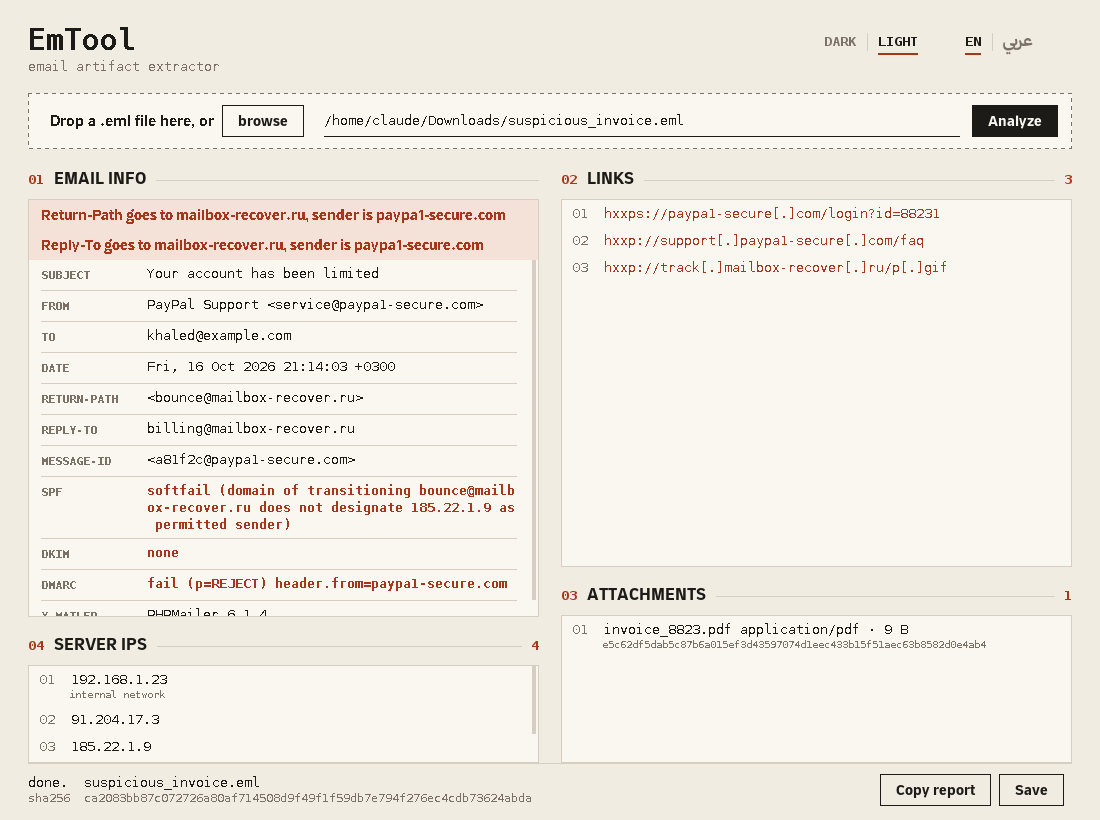
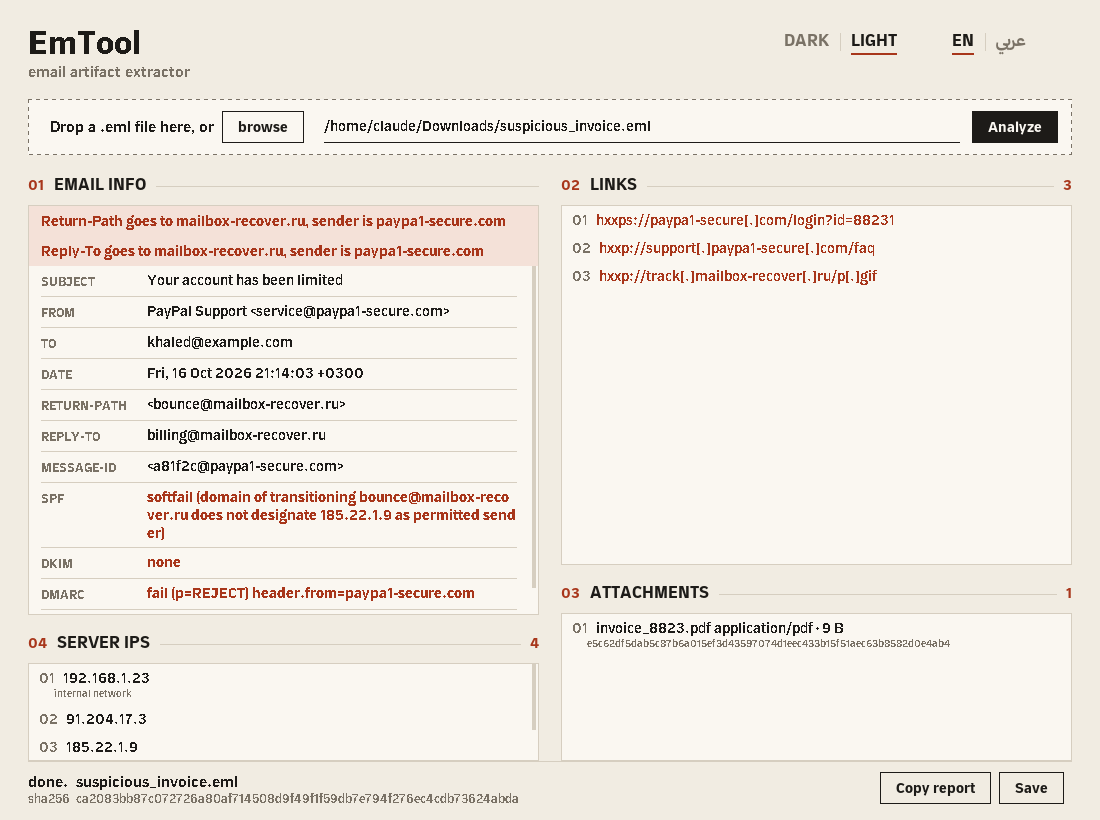
Thmanyah for all text; shorter README

diff --git a/EmAnalizeTool/EmToolGUI.java b/EmAnalizeTool/EmToolGUI.java
@@ -35,10 +35,10 @@ public class EmToolGUI extends JFrame {
     static final Font FACE_BOLD = face("bold");
     static final String UI_FAMILY = FACE_BOLD.getFamily();
 
-    static final Font MONO      = new Font(Font.MONOSPACED, Font.PLAIN, 13);
-    static final Font MONO_BOLD = new Font(Font.MONOSPACED, Font.BOLD, 13);
-    static final Font MONO_SMALL = new Font(Font.MONOSPACED, Font.PLAIN, 11);
-    static final Font MARK      = new Font(Font.MONOSPACED, Font.BOLD, 30);
+    static final Font BODY      = FACE_MED.deriveFont(14f);
+    static final Font TEXT_BOLD = FACE_BOLD.deriveFont(14f);
+    static final Font TEXT_SMALL = FACE_MED.deriveFont(12f);
+    static final Font MARK      = FACE_BOLD.deriveFont(32f);
     static final Font UI        = FACE_MED.deriveFont(15f);
     static final Font UI_SMALL  = FACE_MED.deriveFont(13f);
     static final Font UI_BOLD   = FACE_BOLD.deriveFont(14f);
@@ -178,7 +178,7 @@ public class EmToolGUI extends JFrame {
         left.add(dropLabel);
         left.add(browseBtn);
 
-        pathField.setFont(MONO);
+        pathField.setFont(BODY);
         pathField.setForeground(INK);
         pathField.setBackground(SHEET);
         pathField.setCaretColor(RUST);
@@ -245,7 +245,7 @@ public class EmToolGUI extends JFrame {
         JPanel info = new JPanel();
         info.setOpaque(false);
         info.setLayout(new BoxLayout(info, BoxLayout.Y_AXIS));
-        hashLabel.setFont(MONO_SMALL);
+        hashLabel.setFont(TEXT_SMALL);
         hashLabel.setForeground(MUTED);
         info.add(status);
         info.add(hashLabel);
@@ -416,7 +416,7 @@ public class EmToolGUI extends JFrame {
         c.gridx = 0; c.weightx = 0; c.fill = GridBagConstraints.NONE;
         c.insets = new Insets(6, 12, 6, 10);
         JLabel k = new JLabel(ar ? AR_KEYS.get(key) : key.toUpperCase());
-        k.setFont(ar ? UI_BOLD : new Font(Font.MONOSPACED, Font.BOLD, 11));
+        k.setFont(ar ? UI_BOLD : FACE_BOLD.deriveFont(12f));
         k.setForeground(MUTED);
         k.setPreferredSize(new Dimension(96, 18));
         headerRows.add(k, c);
@@ -427,7 +427,7 @@ public class EmToolGUI extends JFrame {
         v.setEditable(false);
         v.setLineWrap(true);
         v.setWrapStyleWord(false);
-        v.setFont(MONO);
+        v.setFont(BODY);
         v.setOpaque(false);
         v.setBorder(null);
         v.setSelectionColor(RUST);
@@ -438,7 +438,7 @@ public class EmToolGUI extends JFrame {
             String low = value.toLowerCase();
             if (low.startsWith("pass")) v.setForeground(OLIVE);
             else if (low.startsWith("fail") || low.startsWith("softfail") || low.startsWith("none")) v.setForeground(RUST);
-            v.setFont(MONO_BOLD);
+            v.setFont(TEXT_BOLD);
         }
         headerRows.add(v, c);
         c.gridy++;
@@ -490,8 +490,8 @@ public class EmToolGUI extends JFrame {
         for (CopyList l : new CopyList[]{linkList, attachList, ipList}) l.setToolTipText(t("hint"));
         status.setText(t(statusKey) + statusExtra);
         status.setForeground(statusError ? RUST : INK);
-        tagline.setFont(arabic ? UI : MONO);
-        status.setFont(arabic ? UI : MONO);
+        tagline.setFont(UI);
+        status.setFont(UI);
         hHead.setFont(UI_TITLE); lHead.setFont(UI_TITLE); aHead.setFont(UI_TITLE); iHead.setFont(UI_TITLE);
         lang.repaint();
         theme.repaint();
@@ -548,7 +548,7 @@ public class EmToolGUI extends JFrame {
             int w = getWidth(), y = 17;
             String label = arabic ? text : text.toUpperCase();
 
-            g2.setFont(MONO_BOLD);
+            g2.setFont(TEXT_BOLD);
             FontMetrics nm = g2.getFontMetrics();
             int numW = nm.stringWidth(num);
             g2.setFont(getFont());
@@ -563,7 +563,7 @@ public class EmToolGUI extends JFrame {
             int lineB = rtl ? txtX - 10 : w - cntW - (cnt.isEmpty() ? 0 : 10);
             int cntX = rtl ? 0 : w - cntW;
 
-            g2.setFont(MONO_BOLD);
+            g2.setFont(TEXT_BOLD);
             g2.setColor(RUST);
             g2.drawString(num, numX, y);
             g2.setFont(getFont());
@@ -572,7 +572,7 @@ public class EmToolGUI extends JFrame {
             g2.setColor(RULE);
             if (lineB > lineA) g2.drawLine(lineA, y - 4, lineB, y - 4);
             if (!cnt.isEmpty()) {
-                g2.setFont(MONO_BOLD);
+                g2.setFont(TEXT_BOLD);
                 g2.setColor(count > 0 ? RUST : MUTED);
                 g2.drawString(cnt, cntX, y);
             }
@@ -633,14 +633,14 @@ public class EmToolGUI extends JFrame {
         Toggle(java.util.function.Supplier<String> left, java.util.function.Supplier<String> right,
                java.util.function.BooleanSupplier rightOn, Runnable flip) {
             this.left = left; this.right = right; this.rightOn = rightOn;
-            setPreferredSize(new Dimension(110, 28));
+            setPreferredSize(new Dimension(130, 28));
             setCursor(Cursor.getPredefinedCursor(Cursor.HAND_CURSOR));
             addMouseListener(new MouseAdapter() {
                 @Override public void mouseClicked(MouseEvent e) { flip.run(); }
             });
         }
 
-        Font fontFor(String s) { return s.matches(".*[\\u0600-\\u06FF].*") ? UI_TITLE : MONO_BOLD; }
+        Font fontFor(String s) { return UI_TITLE; }
 
         @Override protected void paintComponent(Graphics g) {
             Graphics2D g2 = (Graphics2D) g.create();
@@ -678,7 +678,7 @@ public class EmToolGUI extends JFrame {
 
         CopyList(Color text) {
             setModel(model);
-            setFont(MONO);
+            setFont(BODY);
             setBackground(SHEET);
             setForeground(text);
             setSelectionBackground(INK);
@@ -698,7 +698,7 @@ public class EmToolGUI extends JFrame {
                          .append(esc(row[1])).append("</font></span>");
                     l.setText(h.append("</html>").toString());
                     l.setBorder(new EmptyBorder(5, 10, 5, 10));
-                    l.setFont(MONO);
+                    l.setFont(BODY);
                     if (!sel) { l.setBackground(SHEET); l.setForeground(text); }
                     return l;
                 }

diff --git a/README.md b/README.md
@@ -2,7 +2,7 @@
 
 <p align="center">
   Email artifact extractor for phishing triage<br>
-  <a href="#بالعربي">العربية</a> · <a href="#english">English</a>
+  <a href="#ايميل-مشبوه-">العربية</a> · <a href="#english">English</a>
 </p>
 
 <p align="center">
@@ -24,20 +24,20 @@
 
 ## ايميل مشبوه ؟ 
 
-تفتح الإيميل المشبوه بدون ما تفتحه فعلياً. تعطي الأداة ملف `.eml` وتطلع لك كل شي يهمك في التحليل في شاشة وحدة: مين أرسله ومن وين جا، وش فيه روابط، وش فيه مرفقات، وهل اجتاز فحص SPF و DKIM و DMARC. كل شي يصير على جهازك، وما يطلع أي شي للنت.
+حط ملف `.eml` وتطلع لك كل معلوماته في شاشة وحدة. كل شي يصير على جهازك وما يطلع شي للنت.
 
 ### وش تطلع لك
 
 | القسم | المحتوى |
 |---|---|
 | معلومات الإيميل | الموضوع، المرسل، المستلم، التاريخ، Return-Path، Reply-To، Message-ID، X-Mailer |
-| فحص المرسل | نتيجة SPF و DKIM و DMARC، الأخضر نجح والأحمر فشل |
-| تنبيه | إذا Return-Path أو Reply-To يروح لدومين غير دومين المرسل، وهذي من أوضح علامات التصيد |
-| الروابط | كل الروابط من نص الإيميل ومن الـ HTML، بدون تكرار، ومعطّلة عشان ما تنفتح بالغلط: `hxxps://site[.]com` |
-| المرفقات | الاسم والنوع والحجم و SHA-256، جاهز تحطه في VirusTotal |
-| عناوين IP | من ترويسات Received، مرتبة من جهة المرسل لين وصلت لك، والداخلية عليها علامة |
+| فحص المرسل | SPF و DKIM و DMARC |
+| تنبيه | لو Return-Path أو Reply-To غير دومين المرسل |
+| الروابط | كل الروابط، معطّلة: `hxxps://site[.]com` |
+| المرفقات | الاسم والنوع والحجم و SHA-256 |
+| عناوين IP | السيرفرات اللي مر عليها الإيميل |
 
-دبل كلك على أي سطر ينسخه، وتقدر تنسخ التقرير كامل أو تحفظه كملف نصي. الواجهة داكنة افتراضياً وفيها وضع فاتح، وتتحول بين العربي والإنجليزي من فوق.
+دبل كلك على أي سطر ينسخه. فيه وضع داكن وفاتح، وعربي وإنجليزي.
 
 <picture>
   <source media="(prefers-color-scheme: dark)" srcset="docs/screenshot-ar-dark.png">
@@ -58,16 +58,15 @@ java  -cp ".;lib/*" EmToolGUI
 
 <div dir="rtl">
 
-أمر `javac` مرة وحدة بس. على ماك أو لينكس بدّل `;` بـ `:`. بعدها اسحب الإيميل على النافذة أو اضغط **اختر ملف**.
-النسخة الأصلية اللي تشتغل بالتيرمنل موجودة زي ما هي: `java -cp ".;lib/*" EmTool`
+على ماك أو لينكس بدّل `;` بـ `:`. النسخة الأصلية حقت التيرمنل: `java -cp ".;lib/*" EmTool`
 
 ### الخط
 
-الأداة مصممة على خط ثمانية. نزّله من صفحة الخط الرسمية حقت ثمانية، وثبّته على جهازك أو حط ملفاته في `EmAnalizeTool/fonts/`، والأداة تلقاه بنفسها. إذا ما لقته تشتغل بخط النظام. ملفات الخط مو في الريبو لأن رخصتها ما تسمح بإعادة النشر.
+الأداة على خط ثمانية. نزّله من موقع ثمانية وحط ملفاته في `EmAnalizeTool/fonts/`. ما هو في الريبو لأن الرخصة تمنع نشره.
 
 ### ليش javax.mail
 
-الإيميل مو نص عادي: فيه أجزاء متداخلة وترميزات ومرفقات. `javax.mail` يفك هذا كله مباشرة، ولو قريناه كـ txt كان لازم نكتب كل هالمعالجة بأيدينا.
+تقرأ الإيميل مباشرة بكل أجزائه ومرفقاته، بدل ما نعالجه كنص.
 
 </div>
 
@@ -75,20 +74,20 @@ java  -cp ".;lib/*" EmToolGUI
 
 ## English
 
-Open a suspicious email without actually opening it. Give EmTool an `.eml` file and it lays out everything that matters for triage on one screen: who sent it and through which servers, every link, every attachment, and whether it passed SPF, DKIM and DMARC. Everything runs locally; nothing leaves your machine.
+Drop in an `.eml` file and get everything about it on one screen. Runs locally, nothing leaves your machine.
 
 ### What it extracts
 
 | Section | Content |
 |---|---|
 | Email info | Subject, From, To, Date, Return-Path, Reply-To, Message-ID, X-Mailer |
-| Sender checks | SPF, DKIM and DMARC results, green on pass and red on fail |
-| Warning | Raised when Return-Path or Reply-To points to a different domain than the sender, a classic phishing sign |
-| Links | Every URL in the plain-text and HTML body, de-duplicated and defanged so it can't be clicked by accident: `hxxps://site[.]com` |
-| Attachments | Name, type, size and SHA-256, ready for VirusTotal |
-| Server IPs | Parsed from the `Received` chain, ordered from the sender's side to yours, private ranges marked |
+| Sender checks | SPF, DKIM, DMARC |
+| Warning | Return-Path or Reply-To on a different domain than the sender |
+| Links | Every link, defanged: `hxxps://site[.]com` |
+| Attachments | Name, type, size, SHA-256 |
+| Server IPs | Servers the email passed through |
 
-Double-click any line to copy it, or copy and save the full report as text. Dark theme by default with a light option, and an English / Arabic switch in the top bar.
+Double-click any line to copy it. Dark and light themes, English and Arabic.
 
 ### Run
 
@@ -104,12 +103,11 @@ javac -cp ".:lib/*" -encoding UTF-8 *.java
 java  -cp ".:lib/*" EmToolGUI
 ```
 
-Compile once. Then drop an email on the window, paste its path, or press **browse**. A path can also be passed directly: `java -cp ".;lib/*" EmToolGUI mail.eml`.
-The original command-line tool is unchanged: `java -cp ".;lib/*" EmTool`.
+The original command-line tool: `java -cp ".;lib/*" EmTool`
 
 ### Font
 
-The interface is designed around the Thmanyah typeface. Download it from Thmanyah's official font page, then install it or drop the `.ttf` / `.otf` files into `EmAnalizeTool/fonts/`; EmTool picks it up automatically and falls back to the system font otherwise. The font files are not bundled because their license does not permit redistribution.
+Uses the Thmanyah typeface. Download it from Thmanyah and put the files in `EmAnalizeTool/fonts/`. Not bundled, the license forbids redistribution.
 
 ### How it works
 
